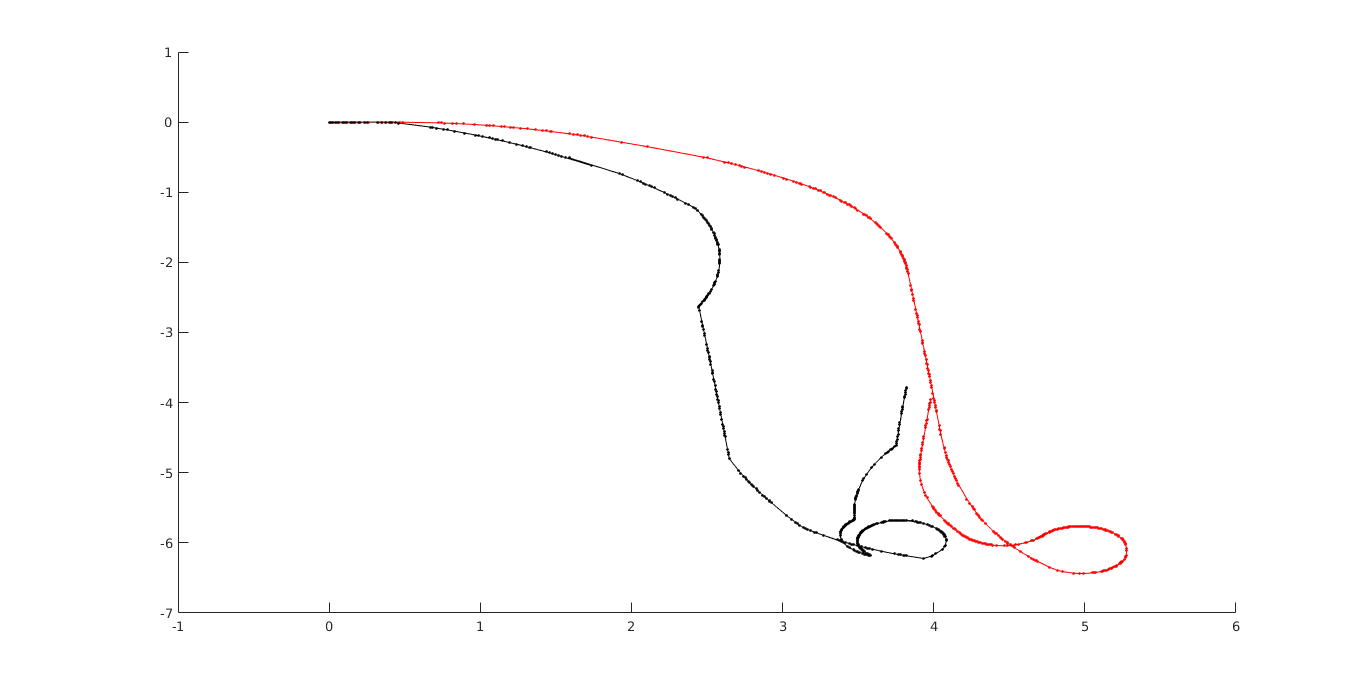
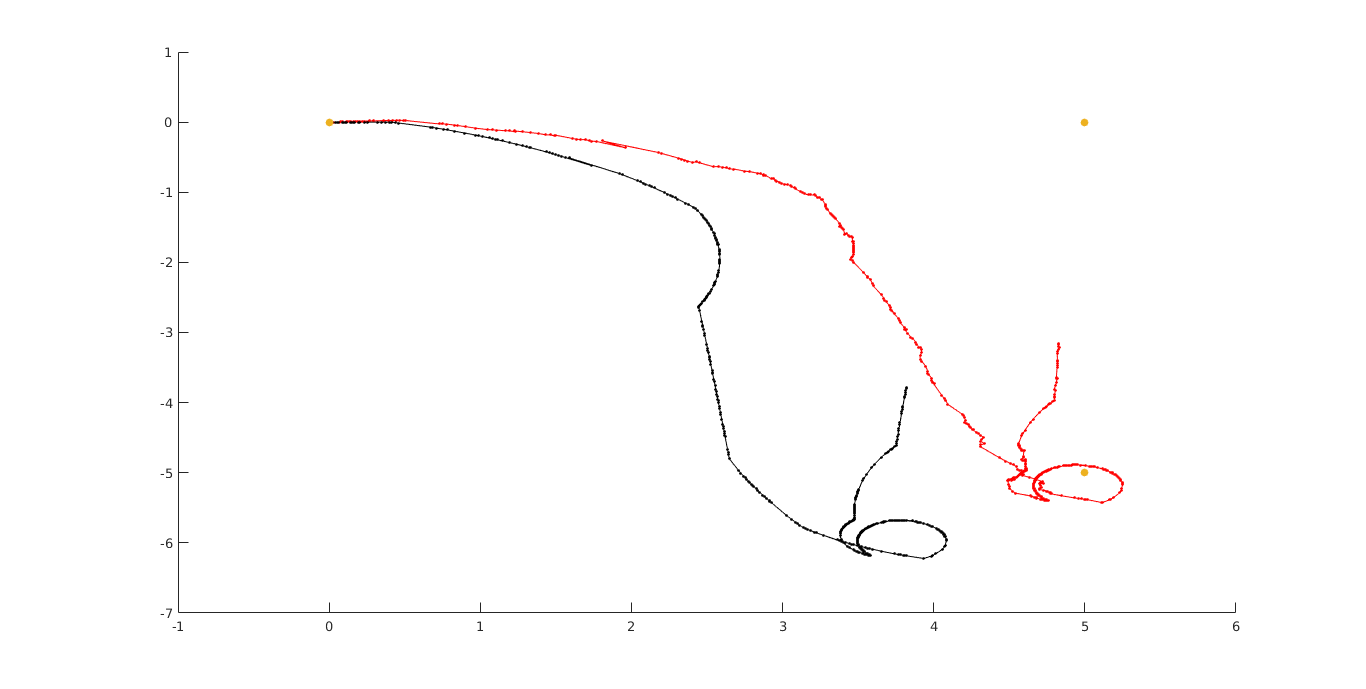
general update

diff --git a/EKF_SLAM3.m b/EKF_SLAM3.m
@@ -1,6 +1,3 @@
-%--------------------------------------------------------------------- init
-%
-
 clear;
 close all;
 
@@ -11,8 +8,8 @@ close all;
 logfilename = 'dlog_thirdmark.dat'; N = 1434;
 % logfilename = 'dlog.dat'; N = 3351;
 
-%------------------------------------------------------------ data creation
-%expected user input noise
+% ----- data creation
+% expected user input noise
 u_err = .15;
 M = u_err*eye(2);
 
@@ -125,11 +122,11 @@ end % if logfile
 N = t;
 NK = 6; % number of landmarks
 
-% -----------------------------------------------------------------------
+% --------
 % EKF SLAM
-%
+% --------
 
-
+% ---- initialization
 Sigma = zeros(3 + 2*NK, 3 + 2*NK, N);
 Sigma(4:end, 4:end, 1) = eye(2*NK)*10^9;
 
@@ -141,12 +138,14 @@ for i=1:NK
 end
 
 for t = 2:N
-    %----------------------------------------------------------- prediction
-    %3
+    % ---- state prediction
 
+    % old velocity model
     %get user input
     %v = u(1,t); % velocity
     %omega = u(2,t) + 10^-10;	% delta angle
+    
+    % odometry model
     rot1 = u(1,t);
     trans = u(2,t);
     rot2 = u(3,t);
@@ -155,13 +154,19 @@ for t = 2:N
     
     Fx = [eye(3), zeros(3, 2*NK)];
     
+    % old velocity model prediction
 %     mu_ = mu(:, t-1) + Fx' * [-v/omega * sin(x(3)) + v/omega * sin(x(3)+omega);...
 %                             v/omega * cos(x(3)) - v/omega * cos(x(3)+omega);...
 %                             omega];
+
+    % odometry model prediction
      mu_ = mu(:, t-1) + Fx' * [trans * cos(x(3)+rot1);...
                             trans * sin(x(3)+rot1);...
                             rot1 + rot2];
                 
+    % ---- uncertainty prediction
+    
+    % Jacobian with respect to robot location
     G = eye(2*NK + 3) + Fx' * [...
         0, 0, -trans * sin(x(3)+rot1);...
         0, 0, trans * cos(x(3)+rot1);...
@@ -169,8 +174,9 @@ for t = 2:N
 
     Sigma_ = G * Sigma(:,:,t-1) * G';
     
-    
+    % Jacobian with respect to control
     M = eye(3) * 10^-4.5;
+%     M = eye(3) * 10^-9;
     
     V = [-trans*cos(mu_(3)+rot1), cos(mu_(3)+rot1), 0;...
         trans*sin(mu_(3)+rot1),  sin(mu_(3)+rot1), 0;...
@@ -180,15 +186,16 @@ for t = 2:N
     
     Sigma_ = Sigma_ + Fx' * R * Fx;
    
-    %----------------------------------------------------------- correction
-    %
+    % ---- correction
     for landmark = 1:size(z,3)
-        if z(1, t, landmark) ~= 0 % if landmark not measured
+        if z(1, t, landmark) ~= 0 
+            % if landmark has never been measured
             if mu_(3 +2*(landmark-1) + 1) == 0 && mu_(3 +2*(landmark-1) + 1) == 0
                 mu_(3 +2*(landmark-1) + 1) = mu_(1) + z(1, t, landmark)*cos(z(2, t, landmark) + mu_(3));
                 mu_(3 +2*(landmark-1) + 2) = mu_(2) + z(1, t, landmark)*sin(z(2, t, landmark) + mu_(3));
             end
             
+            % noise in readings/angle
             Q = diag([.15*z(1, t, landmark), .10]+10^-9);
 
             delta = [mu_(3 +2*(landmark-1) + 1) - mu_(1); mu_(3 +2*(landmark-1) + 2) - mu_(2)];
@@ -201,52 +208,74 @@ for t = 2:N
             H = 1/q * [-sqrt(q)*delta(1), -sqrt(q) * delta(2), 0, sqrt(q)*delta(1), sqrt(q) * delta(2);
                 delta(2), -delta(1), -q, -delta(2), delta(1)] * Fxj;
 
+            % precision matrix
             S = H * Sigma_ * H' + Q;
             
+            % Kalman gain
             K = Sigma_ * H' / S;
 
-            %innovation
+            % innovation
             nu = z(:,t,landmark) - z_;
             
-            %validation gate
-            ro = nu'/S*nu; % From Kristensen IROS'03, section III.A
+            % validation gate
+            ro = nu'/S*nu;
             
             if ro < 2
                 %updated mean and covariance
                 mu_ = mu_ + K*nu;
                 Sigma_ = (eye(size(mu_, 1))-K*H)*Sigma_;
             end
+            
+            % old update
+%             mu_ = mu_ + K * (z(:,t,landmark) - z_);
+%             Sigma_ = (eye(2*NK+3) - K*H)*Sigma_;
         end
     end
     
+    % ---- final mu and sigma
     mu(:,t) = mu_;
     Sigma(:,:,t) = Sigma_;
 end
 
+markers = [-10, -10, 0, 5, 5; 0, 5, 0, 0, -5];
 
-% ------plot mu vs xt
-% hold on;
-% % scatter(L(1,:),L(2,:), 10, 'b');
-% plot(mu(1, :), mu(2, :), 'r')
-% plot(xt(1, :), xt(2, :), 'k')
-% hold on
-% scatter(mu(1, :), mu(2, :), 5, 'r', 'filled');
-% scatter(xt(1, :), xt(2, :), 5, 'k', 'filled');
-% % xlim([-15, 15]);
-% % ylim([-10, 10]);
-% scatter([-10, -10, 0, 5, 5], [0, 5, 0, 0, -5]);
+% % ------plot trajectory and markers
+hold on;
+% scatter(L(1,:),L(2,:), 10, 'b');
+plot(mu(1, :), mu(2, :), 'r')
+hold on
+scatter(mu(1, :), mu(2, :), 5, 'r', 'filled');
+% xlim([-15, 15]);
+% ylim([-10, 10]);
+scatter(markers(1, 3:end), markers(2, 3:end), 'blue', 'filled');
 
+% % ------plot mu vs xt
+hold on;
+% scatter(L(1,:),L(2,:), 10, 'b');
+plot(mu(1, :), mu(2, :), 'r')
+plot(xt(1, :), xt(2, :), 'k')
+hold on
+scatter(mu(1, :), mu(2, :), 5, 'r', 'filled');
+scatter(xt(1, :), xt(2, :), 5, 'k', 'filled');
+% xlim([-15, 15]);
+% ylim([-10, 10]);
+scatter(markers(1, 3:end), markers(2, 3:end), 'filled');
+
+% ---- plot of the markers positions
+scatter(markers(1, :), markers(2, :), 'filled');
+xlim([-15, 10]);
+ylim([-10, 10]);
 
 % ------plot robot path with covariances
-% figure();
-% hold on;
-% % scatter(L(1,:),L(2,:), 10, 'b');
-% plot(mu(1, :), mu(2, :), 'r')
-% scatter(mu(1, :), mu(2, :), 5, 'r', 'filled');
-% for i=1:5:size(mu, 2)
-%     h = plot_gaussian_ellipsoid(mu(1:2, i), Sigma(1:2, 1:2, i), 1);
-%     set(h,'color','b'); 
-% end
+figure();
+hold on;
+% scatter(L(1,:),L(2,:), 10, 'b');
+plot(mu(1, :), mu(2, :), 'r')
+scatter(mu(1, :), mu(2, :), 5, 'r', 'filled');
+for i=1:5:size(mu, 2)
+    h = plot_gaussian_ellipsoid(mu(1:2, i), Sigma(1:2, 1:2, i), 1);
+    set(h,'color','b'); 
+end
 
 
 % ------dynamical plot of the predicted landmarks positions

diff --git a/EKF.m b/EKF.m
@@ -24,9 +24,9 @@ clear all;
 
 % N is number of observations in dlog.dat
 
-% logfilename = 'dlog_firstmark.dat'; N = 758;
+logfilename = 'dlog_firstmark.dat'; N = 758;
 % logfilename = 'dlog_secondmark.dat'; N = 1159;
-logfilename = 'dlog_thirdmark.dat'; N = 1434;
+% logfilename = 'dlog_thirdmark.dat'; N = 1434;
 % logfilename = 'dlog.dat'; N = 3351;
 
 % expected user input noise
